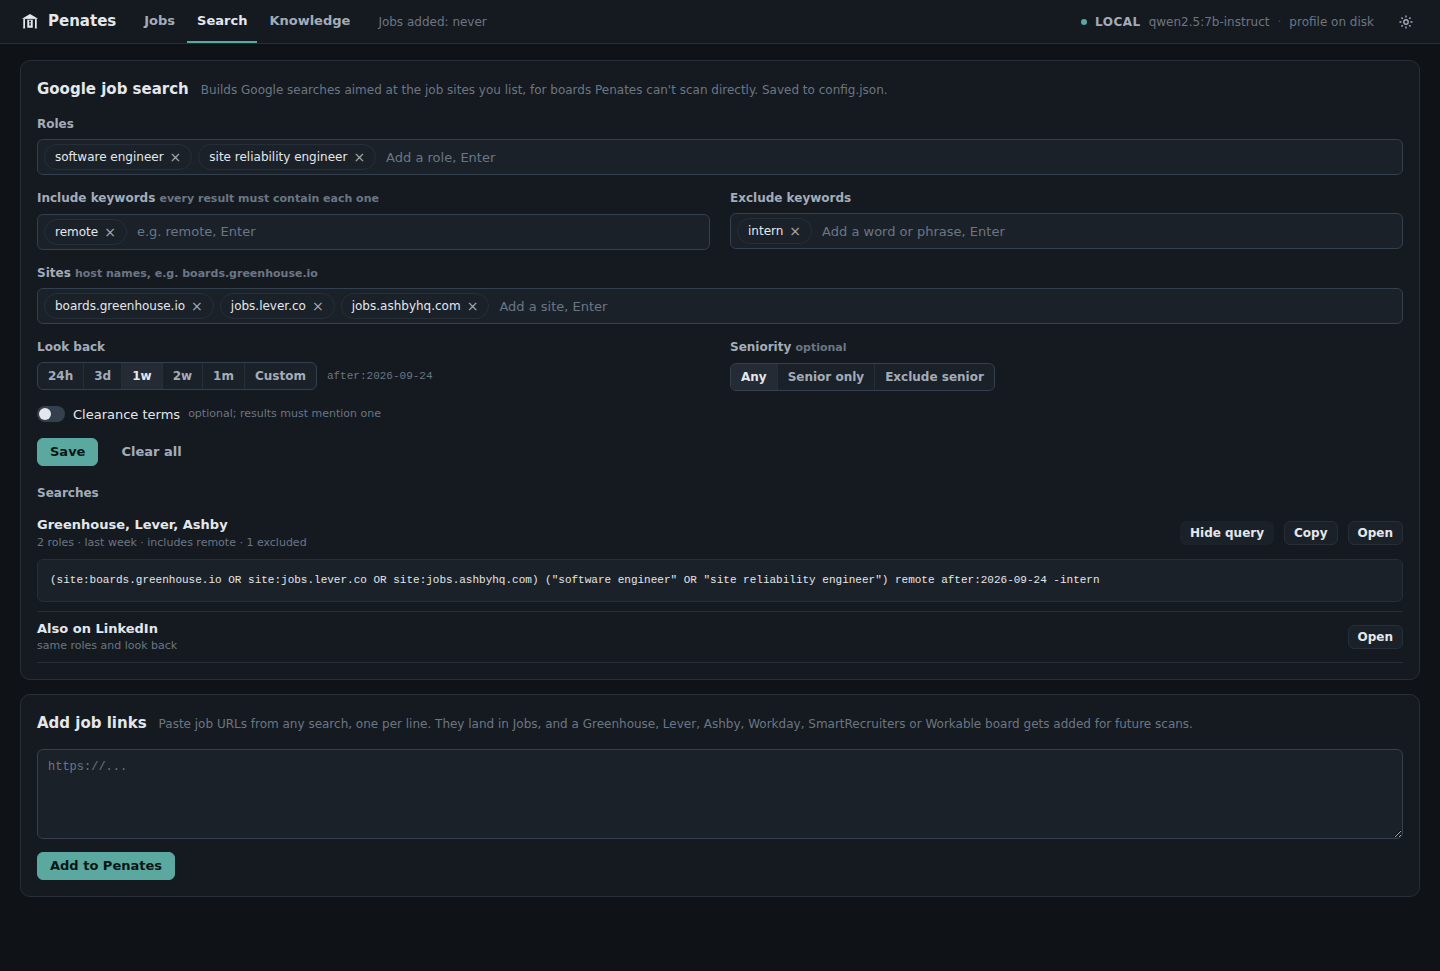
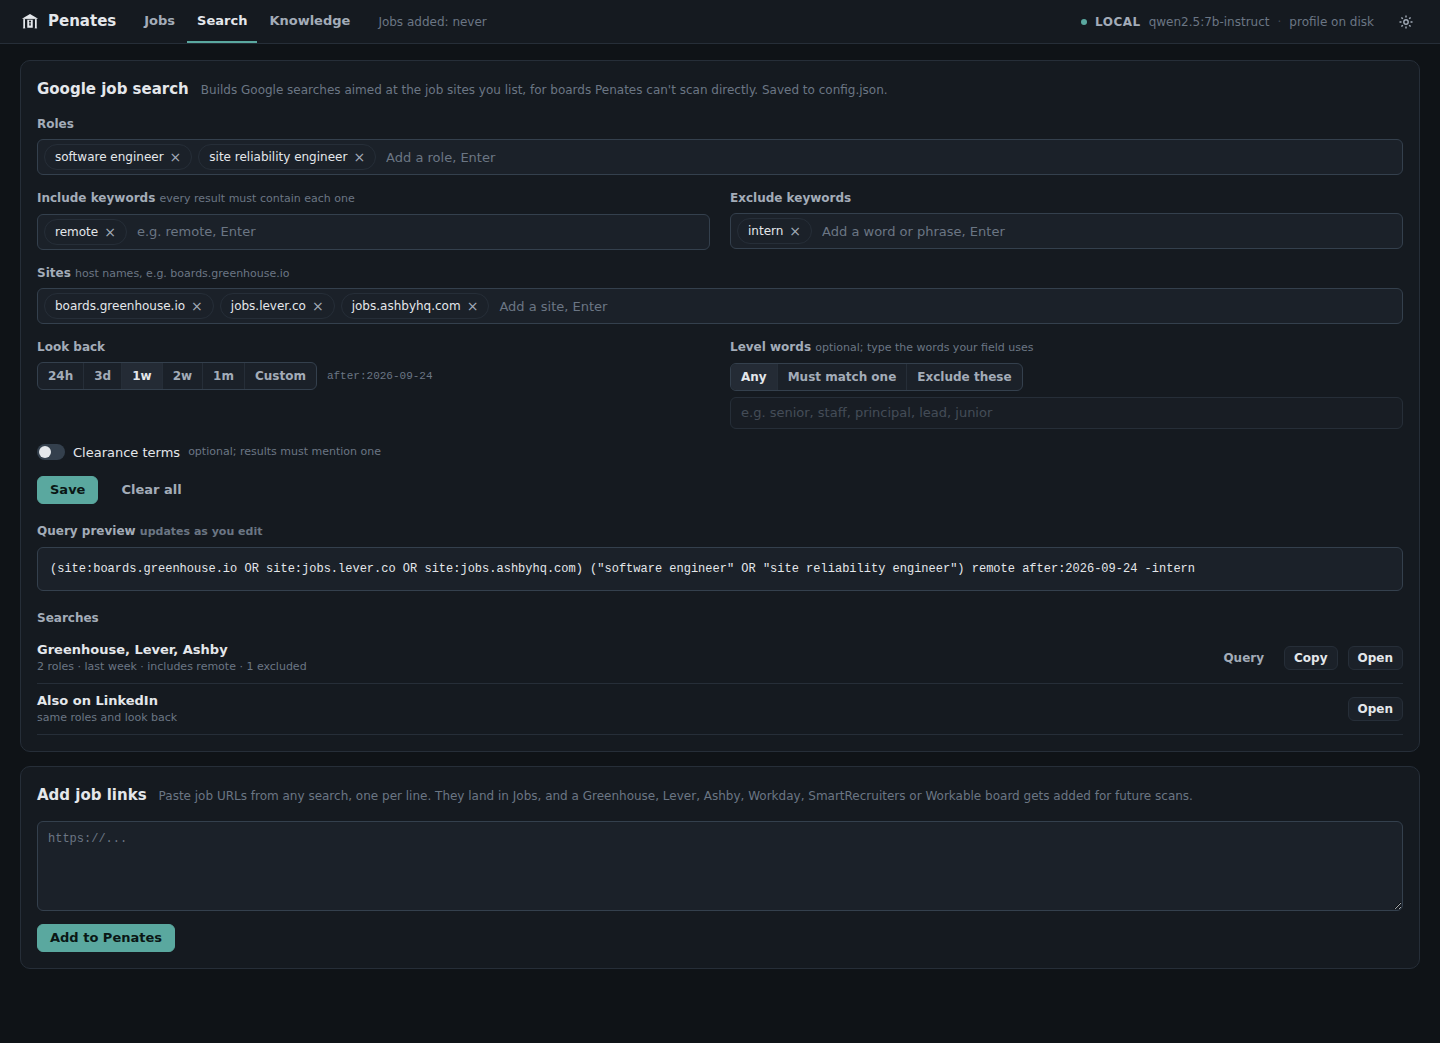
Search: live query preview; level words replace seniority

diff --git a/dashboard.html b/dashboard.html
@@ -120,7 +120,7 @@
   .fld{display:flex;flex-direction:column;gap:6px;min-width:0}
   .fld.wide{grid-column:1/-1}
   .fld>.lbl{font-size:12px;color:var(--text-2);font-weight:600}
-  .fld>.lbl .cap,.toggle .cap{font-weight:400}
+  .fld>.lbl .cap,.toggle .cap,.subh .cap{font-weight:400}
   .fld textarea{min-height:64px}
   .packs{display:flex;gap:22px;flex-wrap:wrap}
   .row{display:flex;gap:10px;align-items:center;flex-wrap:wrap}
@@ -140,6 +140,8 @@
   .qmain .lbl{font-weight:600}
   .qmain .cap{white-space:nowrap;overflow:hidden;text-overflow:ellipsis}
   .qrow2 .qfull{grid-column:1/-1;margin:4px 0 2px;font-size:11px;max-height:none}
+  .qprev{margin:0 0 6px;font-size:12px;max-height:none;white-space:pre-wrap;word-break:break-word;border-color:var(--line-strong)}
+  .chipbox.inactive{opacity:.55}
   .chipbox{min-height:32px;padding:4px 6px;border:1px solid var(--line-strong);border-radius:6px;background:var(--surface-2)}
   .chipbox input{border:0!important;background:none!important;height:22px!important;min-width:140px!important;padding:0 4px!important;outline:none;flex:1}
   .logline{font:12px/1.5 var(--mono);color:var(--text-2);border-bottom:1px solid var(--line);padding:4px 0}
@@ -292,15 +294,15 @@ tr.jobrow:hover .icon,.icon:focus-visible{opacity:1}
             <input id="gsDaysN" type="number" min="1" max="365" style="width:80px;min-width:0" hidden placeholder="days">
             <span class="cap mono" id="gsAfter"></span>
           </div></div>
-        <div class="fld"><span class="lbl">Seniority <span class="cap">optional</span></span>
-          <div class="row">
-            <div class="seg" id="gsSenSeg"><button type="button" data-s="any">Any</button><button type="button" data-s="senior">Senior only</button><button type="button" data-s="no_senior">Exclude senior</button></div>
-          </div>
-          <div class="chips chipbox" data-key="senior_terms" data-ph="senior words, e.g. senior, Enter" id="gsSenTerms" hidden></div></div>
+        <div class="fld"><span class="lbl">Level words <span class="cap">optional; type the words your field uses</span></span>
+          <div class="seg" id="gsLvlSeg"><button type="button" data-m="any">Any</button><button type="button" data-m="match">Must match one</button><button type="button" data-m="exclude">Exclude these</button></div>
+          <div class="chips chipbox" data-key="level_terms" data-ph="e.g. senior, staff, principal, lead, junior" id="gsLvlTerms"></div></div>
         <div class="fld wide"><label class="toggle"><input type="checkbox" id="gsClrOn"> Clearance terms <span class="cap">optional; results must mention one</span></label>
           <div class="chips chipbox" data-key="clearance_terms" data-ph="e.g. secret clearance, Enter" id="gsClrTerms" hidden></div></div>
       </div>
       <div class="row" style="margin-top:14px"><button class="btn" id="gsSave">Save</button><button class="btn quiet" id="gsClear">Clear all</button><span class="cap" id="gsMsg"></span></div>
+      <div class="subh">Query preview <span class="cap">updates as you edit</span></div>
+      <div id="gsPrev"></div>
       <div class="subh" id="gsOutH">Searches</div>
       <div id="gsOut"></div>
     </div>
@@ -1141,10 +1143,10 @@ $('stPaneImp').onclick=()=>showStoryPane('imp');
 loadJobs();
 // ---- Search tab: Google job-site query generator (any user; nothing personal hardcoded) ----
 // Model saved to config.json google_search:
-//   {roles[], include[], exclude[], sites[], days, seniority:'any'|'senior'|'no_senior',
-//    senior_terms[], clearance:{on:bool, terms[]}}
+//   {roles[], include[], exclude[], sites[], days, level:{mode:'any'|'match'|'exclude', terms[]},
+//    clearance:{on:bool, terms[]}}
 const GS_DEFAULT={roles:[],include:[],exclude:[],sites:["boards.greenhouse.io","jobs.lever.co","jobs.ashbyhq.com"],
-  days:7,seniority:'any',senior_terms:['senior'],clearance:{on:false,terms:[]}};
+  days:7,level:{mode:'any',terms:[]},clearance:{on:false,terms:[]}};
 let GS=null;
 const gsLines=v=>String(v||'').split('\n').map(s=>s.trim()).filter(Boolean);
 const gsTok=s=>{ s=String(s).trim().replace(/^"(.*)"$/,'$1').replace(/"/g,''); return /\s|[-/]/.test(s)?'"'+s+'"':s; };
@@ -1152,13 +1154,19 @@ const gsQuoted=s=>'"'+String(s).trim().replace(/^"(.*)"$/,'$1').replace(/"/g,'')
 function gsSplitInclude(v){ if(Array.isArray(v)) return v; const out=[]; String(v||'').replace(/"([^"]+)"|(\S+)/g,(m,a,b)=>{out.push(a||b);return m;}); return out; }
 // Read an old saved shape (sites as comma groups, include as one string, variants) without losing it.
 function gsNormalize(c){
-  c=Object.assign({},GS_DEFAULT,c||{});
+  const raw=c||{};
+  c=Object.assign({},GS_DEFAULT,raw);
   const sites=[]; (c.sites||[]).forEach(g=>String(g).split(',').forEach(s=>{ s=s.trim().replace(/^https?:\/\//,'').replace(/\/.*$/,''); if(s&&!sites.includes(s)) sites.push(s); }));
   const v=c.variants;
-  const seniority=c.seniority||(v?(v.with&&!v.without?'senior':(!v.with&&v.without?'no_senior':'any')):'any');
+  // older shapes: seniority any/senior/no_senior (+senior_terms), or variants {with,without}
+  let level=raw.level&&raw.level.mode?{mode:raw.level.mode,terms:[...(raw.level.terms||[])]}:null;
+  if(!level){ const sen=c.seniority||(v?(v.with&&!v.without?'senior':(!v.with&&v.without?'no_senior':'any')):'any');
+    const st=(c.senior_terms&&c.senior_terms.length)?[...c.senior_terms]:['senior'];
+    level=sen==='senior'?{mode:'match',terms:st}:sen==='no_senior'?{mode:'exclude',terms:st}:{mode:'any',terms:[]}; }
+  if(!['any','match','exclude'].includes(level.mode)) level.mode='any';
   const clr=c.clearance&&!Array.isArray(c.clearance)?c.clearance:{on:!!(v&&v.clearance&&Array.isArray(c.clearance)&&c.clearance.length),terms:Array.isArray(c.clearance)?c.clearance:[]};
   return {roles:[...(c.roles||[])],include:gsSplitInclude(c.include),exclude:[...(c.exclude||[])],sites,
-    days:+c.days||7,seniority,senior_terms:(c.senior_terms&&c.senior_terms.length)?[...c.senior_terms]:['senior'],
+    days:+c.days||7,level,
     clearance:{on:!!clr.on,terms:[...(clr.terms||[])]}};
 }
 const SITE_NAMES={'greenhouse':'Greenhouse','lever':'Lever','ashbyhq':'Ashby','myworkdayjobs':'Workday','smartrecruiters':'SmartRecruiters',
@@ -1173,12 +1181,12 @@ function gsAfter(days){ const d=new Date(); d.setDate(d.getDate()-days); return 
 function gsBody(c, after){
   const parts=[];
   if(c.roles.length) parts.push('('+c.roles.map(gsQuoted).join(' OR ')+')');
-  if(c.seniority==='senior' && c.senior_terms.length) parts.push('('+c.senior_terms.map(gsQuoted).join(' OR ')+')');
+  if(c.level.mode==='match' && c.level.terms.length) parts.push('('+c.level.terms.map(gsQuoted).join(' OR ')+')');
   if(c.clearance.on && c.clearance.terms.length) parts.push('('+c.clearance.terms.map(gsQuoted).join(' OR ')+')');
   c.include.forEach(k=>parts.push(gsTok(k)));
   parts.push('after:'+after);
   c.exclude.forEach(k=>parts.push('-'+gsTok(k)));
-  if(c.seniority==='no_senior') (c.senior_terms.length?c.senior_terms:['senior']).forEach(k=>parts.push('-'+gsTok(k)));
+  if(c.level.mode==='exclude') c.level.terms.forEach(k=>parts.push('-'+gsQuoted(k)));
   return parts.join(' ');
 }
 // One query per site group; a group only splits when the query would get too long for Google.
@@ -1196,13 +1204,13 @@ function gsReadUI(){ GS.days=gsDays(); GS.clearance.on=$('gsClrOn').checked; ret
 function gsSync(){
   document.querySelectorAll('#gsDaysSeg button').forEach(b=>b.classList.toggle('on',b.dataset.d===(['1','3','7','14','30'].includes(String(GS.days))?String(GS.days):'custom')));
   $('gsDaysN').hidden=['1','3','7','14','30'].includes(String(GS.days)); $('gsDaysN').value=GS.days;
-  document.querySelectorAll('#gsSenSeg button').forEach(b=>b.classList.toggle('on',b.dataset.s===GS.seniority));
-  $('gsSenTerms').hidden=GS.seniority==='any';
+  document.querySelectorAll('#gsLvlSeg button').forEach(b=>b.classList.toggle('on',b.dataset.m===GS.level.mode));
+  $('gsLvlTerms').classList.toggle('inactive',GS.level.mode==='any');
   $('gsClrOn').checked=GS.clearance.on; $('gsClrTerms').hidden=!GS.clearance.on;
   chipAll();
 }
-function gsGet(key){ return key==='clearance_terms'?GS.clearance.terms:GS[key]; }
-function gsSet(key,arr){ if(key==='clearance_terms') GS.clearance.terms=arr; else GS[key]=arr; }
+function gsGet(key){ return key==='clearance_terms'?GS.clearance.terms:key==='level_terms'?GS.level.terms:GS[key]; }
+function gsSet(key,arr){ if(key==='clearance_terms') GS.clearance.terms=arr; else if(key==='level_terms') GS.level.terms=arr; else GS[key]=arr; }
 function chipRender(box){
   const key=box.dataset.key, items=gsGet(key)||[];
   const old=box.querySelector('input'); if(old) old.onblur=null;   // re-render removes the input; its blur must not re-enter
@@ -1223,16 +1231,21 @@ function gsSummary(c){ const bits=[];
   const d=gsDays(); bits.push(d===1?'last 24h':d===7?'last week':d===14?'last 2 weeks':d===30?'last month':'last '+d+' days');
   if(c.include.length) bits.push('includes '+c.include.join(', '));
   if(c.exclude.length) bits.push(c.exclude.length+' excluded');
-  if(c.seniority==='senior') bits.push('senior only'); if(c.seniority==='no_senior') bits.push('no senior');
+  if(c.level.mode==='match'&&c.level.terms.length) bits.push('level: '+c.level.terms.join(' or '));
+  if(c.level.mode==='exclude'&&c.level.terms.length) bits.push('not '+c.level.terms.join(', '));
   if(c.clearance.on&&c.clearance.terms.length) bits.push('clearance');
   return bits.join(' · '); }
 function gsRender(){
   if(!GS) return;
   const c=gsReadUI(), after=gsAfter(c.days); $('gsAfter').textContent='after:'+after;
-  if(!c.roles.length && !c.include.length){ $('gsOut').innerHTML='<div class="hint">Add a role or a keyword to build a search.</div>'; return; }
-  if(!c.sites.length){ $('gsOut').innerHTML='<div class="hint">Add at least one site, for example boards.greenhouse.io.</div>'; return; }
-  const sum=esc(gsSummary(c)), body=gsBody(c,after);
-  const rows=gsGroups(c,body).map((g,i)=>{ const href='https://www.google.com/search?q='+encodeURIComponent(g.q);
+  const missing=[!c.roles.length&&!c.include.length?'a role or an include keyword':'', !c.sites.length?'at least one site (for example boards.greenhouse.io)':''].filter(Boolean);
+  if(missing.length){ const msg='<div class="hint">Add '+missing.join(' and ')+' to build a search.</div>';
+    $('gsPrev').innerHTML=msg; $('gsOut').innerHTML=''; $('gsOutH').hidden=true; return; }
+  $('gsOutH').hidden=false;
+  const sum=esc(gsSummary(c)), body=gsBody(c,after), groups=gsGroups(c,body);
+  $('gsPrev').innerHTML=groups.map(g=>(groups.length>1?`<div class="cap" style="margin:6px 0 2px">${esc([...new Set(g.sites.map(gsSiteName))].join(', '))}</div>`:'')
+    +`<pre class="qprev">${esc(g.q)}</pre>`).join('');
+  const rows=groups.map((g,i)=>{ const href='https://www.google.com/search?q='+encodeURIComponent(g.q);
     const names=[...new Set(g.sites.map(gsSiteName))].join(', ');
     return `<div class="qrow2"><a class="qmain" target="_blank" rel="noopener" href="${href}"><span class="lbl">${esc(names)}</span><span class="cap">${sum}</span></a>`
       +`<span class="row"><button type="button" class="btn quiet sm gs-exp" data-i="${i}" aria-expanded="false">Query</button><button type="button" class="btn ghost sm gs-copy" data-q="${esc(g.q)}">Copy</button><a class="btn ghost sm" target="_blank" rel="noopener" href="${href}">Open</a></span>`
@@ -1250,7 +1263,7 @@ async function loadSearch(){
     document.querySelectorAll('#gsDaysSeg button').forEach(b=>b.onclick=()=>{ document.querySelectorAll('#gsDaysSeg button').forEach(x=>x.classList.toggle('on',x===b));
       $('gsDaysN').hidden=b.dataset.d!=='custom'; if(b.dataset.d==='custom') $('gsDaysN').focus(); gsRender(); });
     $('gsDaysN').addEventListener('input',gsRender);
-    document.querySelectorAll('#gsSenSeg button').forEach(b=>b.onclick=()=>{ GS.seniority=b.dataset.s; gsSync(); gsRender(); });
+    document.querySelectorAll('#gsLvlSeg button').forEach(b=>b.onclick=()=>{ GS.level.mode=b.dataset.m; gsSync(); gsRender(); });
     $('gsClrOn').addEventListener('change',()=>{ GS.clearance.on=$('gsClrOn').checked; $('gsClrTerms').hidden=!GS.clearance.on; gsRender(); });
     gsSync(); }
   gsRender(); }

diff --git a/DESIGN.md b/DESIGN.md
@@ -141,12 +141,13 @@ The chip row is the privacy story; there is no banner. It reports facts: engine 
 Search builds Google searches aimed at job sites Penates cannot scan. Nothing personal is shipped as a default.
 
 - Inputs (all chips, all removable): **Roles**, **Include keywords**, **Exclude keywords**, **Sites** (host names). Look back is a segmented control (24h, 3d, 1w, 2w, 1m, custom).
-- Optional modifiers, off by default: **Seniority** (Any / Senior only / Exclude senior, with user-editable senior words) and **Clearance terms** (a toggle; the user types the terms).
+- Optional modifiers, off by default: **Level words** (mode Any / Must match one / Exclude these, plus chips the user types; nothing prefilled, the placeholder only suggests senior, staff, principal, lead, junior; Any applies nothing even if chips remain) and **Clearance terms** (a toggle; the user types the terms). No level taxonomy.
+- **Query preview** sits above the result rows and updates on every chip, look-back, site and level change, no Save needed. One mono block per site group (labeled with site names only when there is more than one group). Missing roles/keywords or sites replace the preview with a one-line hint; no stale query is shown.
 - Output: one Google query per site group. Sites are grouped only when a single query would get too long (more than 6 sites or about 1500 characters). The row title is the human site names ("Greenhouse, Lever, Ashby"), the caption is a plain summary (roles, window, includes, excludes). The Boolean is never the row body: Open launches Google, Copy copies the query, "Query" expands the string.
 - Empty states: no roles and no keywords, or no sites, show a one-line hint instead of a query.
 - One "Also on LinkedIn" row with the same roles and look back. LinkedIn is not a second builder.
 - "Add job links" is a separate card below the generator (Penates ingesting URLs, not query generation).
-- Saved to `config.json` `google_search` = `{roles[], include[], exclude[], sites[], days, seniority, senior_terms[], clearance:{on, terms[]}}`. An older saved shape (comma site groups, include string, variants) is read and converted on load.
+- Saved to `config.json` `google_search` = `{roles[], include[], exclude[], sites[], days, level:{mode, terms[]}, clearance:{on, terms[]}}`. Older saved shapes (comma site groups, include string, variants, seniority) are read and converted on load.
 
 ## 14. Extension overlay mapping (phase 2)
 

diff --git a/README.md b/README.md
@@ -110,7 +110,7 @@ real apply page:
 |---|---|---|
 | **Company ATS boards** | **direct public APIs (Greenhouse, Lever, Ashby, Workday, SmartRecruiters, Workable)** | **the reliable spine: clean titles, locations, posted dates, real apply URLs; from `config/companies.yml`, which grows by itself: any board seen in a discovered job is added** |
 | LinkedIn / Indeed / Google | JobSpy (MIT) | Easy Apply on LinkedIn is skipped (no employer link to fill) |
-| Sites with no API (any job board host you add) | dashboard **Search** tab | a Google query generator: your roles, keywords, sites and look-back become one search per site group, with optional seniority and clearance terms; paste good links back and Penates adds them |
+| Sites with no API (any job board host you add) | dashboard **Search** tab | a Google query generator: your roles, keywords, sites and look-back become one search per site group, with optional level words and clearance terms; paste good links back and Penates adds them |
 | hiring.cafe | public `_next/data` JSON | direct employer apply URLs, salary, posted date |
 | Built In | server-rendered HTML | Easy Apply cards skipped; resolves to the employer ATS |
 | RemoteOK | public JSON API | remote-only, no key |
@@ -142,7 +142,8 @@ in the background and respects the source toggles in **Settings**.
 The **Search** tab is a Google query generator for job sites Penates can't scan. Add roles,
 include and exclude keywords, and the sites to search (host names like `boards.greenhouse.io`),
 pick a look-back window, and it builds one Google search per site group with Open and Copy.
-Seniority and clearance terms are optional modifiers, off by default. Paste good links into
+A live query preview updates as you edit. Level words (match or exclude words like senior, staff
+or junior) and clearance terms are optional modifiers, off by default. Paste good links into
 **Add job links** and Penates adds them, plus the company's whole board when it is a
 Greenhouse, Lever, Ashby, Workday, SmartRecruiters or Workable board.
 
